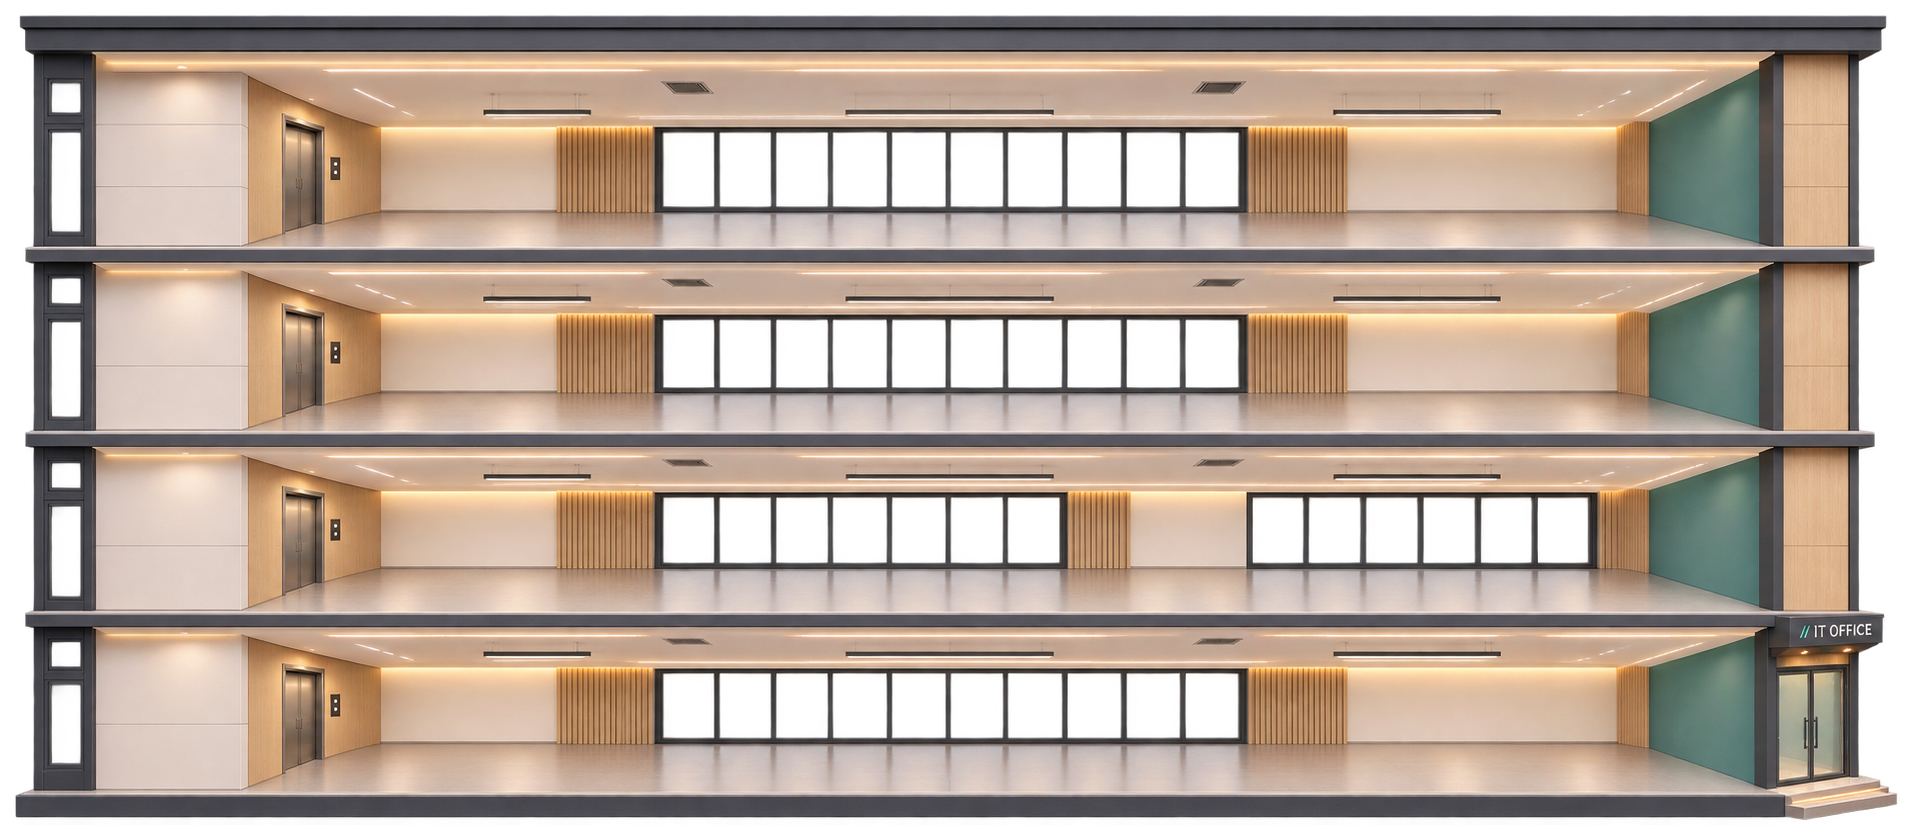
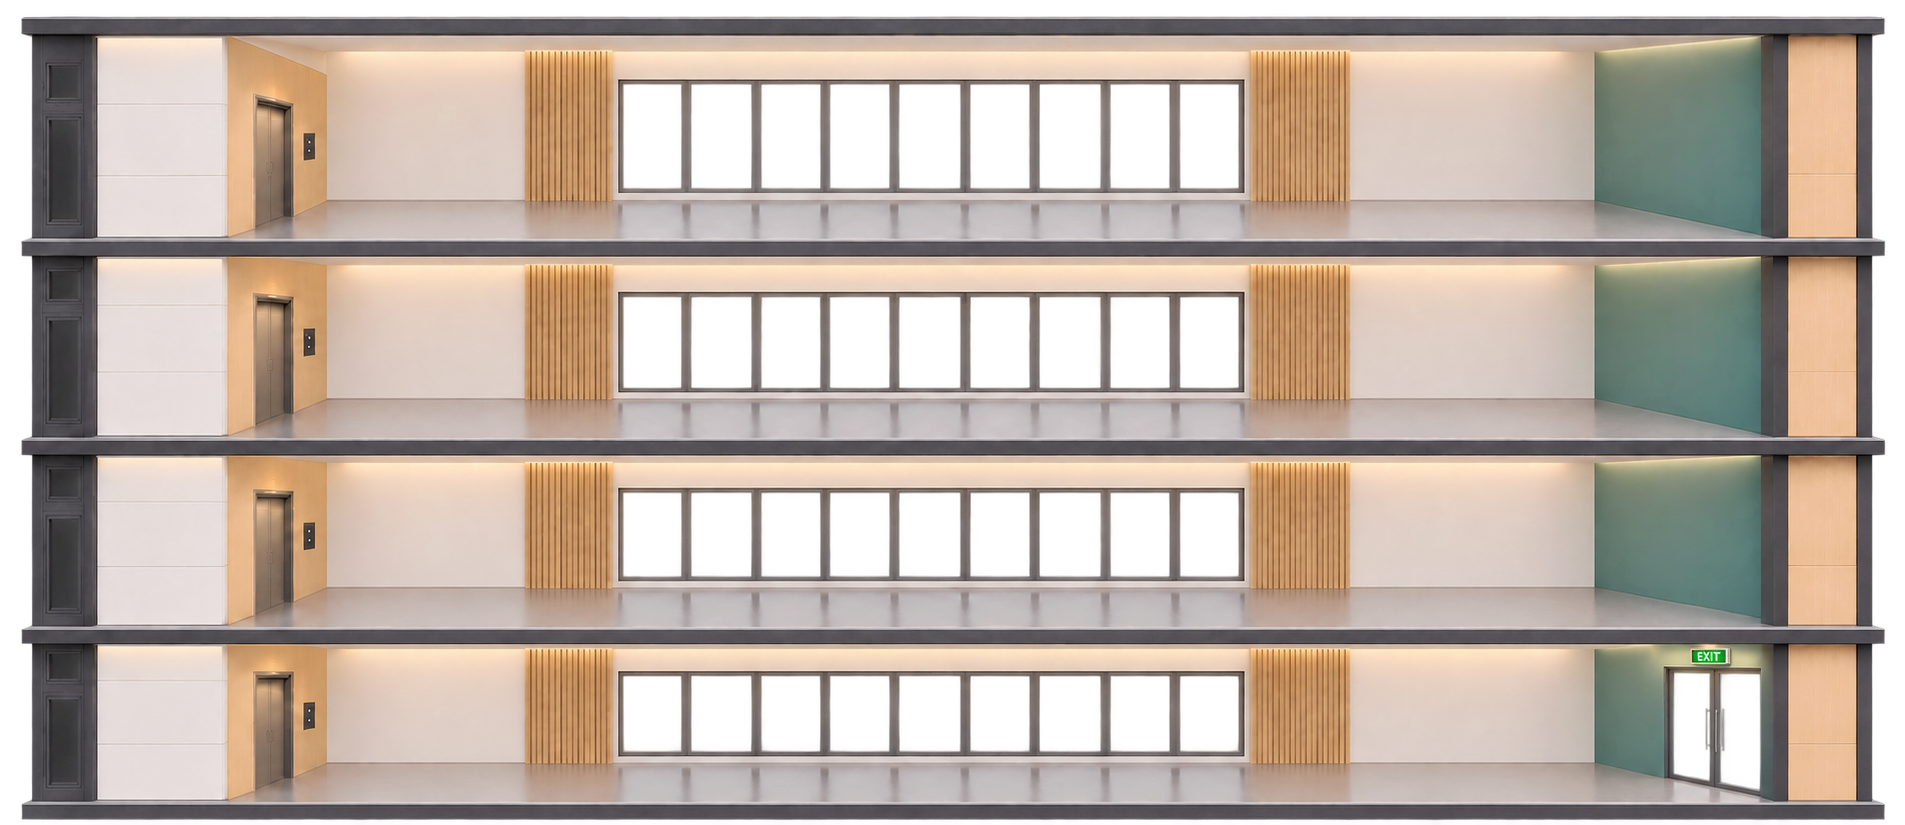
building

diff --git a/src/building.ts b/src/building.ts
@@ -12,30 +12,27 @@ const buildingLeft = 32
 const foundationY = 766
 const buildingTop = foundationY - artHeight * artScale
 // Foot positions follow the center of each elevator threshold.
-export const floorLevels = [765, 588, 408, 227].map(y => buildingTop + y * artScale)
-export const elevatorX = buildingLeft + 304 * artScale
+export const floorLevels = [781, 604, 416, 222].map(y => buildingTop + y * artScale)
+export const elevatorX = buildingLeft + 274 * artScale
 export const floorBounds = { left: elevatorX, right: buildingLeft + 1749 * artScale }
 
 const artX = (x: number) => buildingLeft + x * artScale
 const artY = (y: number) => buildingTop + y * artScale
+const exitThresholdY = artY(786)
 const groundRoute = [
-  { x: artX(1648), y: floorLevels[0] },
-  { x: artX(1812), y: artY(778) },
-  { x: artX(1902), y: artY(807) },
-  { x: artX(1932), y: 780 },
+  { x: artX(1595), y: floorLevels[0] },
+  { x: artX(1715), y: exitThresholdY },
+  { x: artX(1902), y: exitThresholdY },
 ]
 export const streetRight = worldWidth - 24
-export const entranceX = groundRoute[1].x
-export const interiorDoorX = artX(1708)
+export const interiorDoorX = groundRoute[1].x
 export const sidewalkStart = groundRoute[groundRoute.length - 1].x
-export const entranceBounds = new Phaser.Geom.Rectangle(
-  artX(1766), artY(614), 110 * artScale, 172 * artScale,
-)
+export const entranceX = sidewalkStart
 export const interiorDoorBounds = new Phaser.Geom.Rectangle(
-  interiorDoorX - 40 * artScale, groundY(interiorDoorX) - 122 * artScale, 80 * artScale, 128 * artScale,
+  artX(1664), artY(646), 101 * artScale, 152 * artScale,
 )
 export const sidewalkBounds = new Phaser.Geom.Rectangle(
-  groundRoute[1].x, artY(786), streetRight - groundRoute[1].x, 805 - artY(786),
+  sidewalkStart, 698, streetRight - sidewalkStart, 107,
 )
 
 export function groundY(x: number) {
@@ -48,9 +45,9 @@ export function groundY(x: number) {
   return groundRoute[groundRoute.length - 1].y
 }
 
-const rightWallStart = artX(1648)
+const rightWallStart = artX(1595)
 // Keep feet on the floor in front of the angled wall on each upper floor.
-const rightFloorEdge = [765, 609, 429, 246].map(artY)
+const rightFloorEdge = [781, 620, 432, 235].map(artY)
 
 export function walkingY(floor: number, x: number) {
   if (floor === 0) return groundY(x)
@@ -71,79 +68,47 @@ export function addBuilding(scene: Phaser.Scene) {
     .setName('Office building')
 
   const texture = scene.textures.get(officeArt)
-  const source = texture.getSourceImage('__BASE') as HTMLImageElement
-  if (!texture.has('door-left')) {
-    texture.add('door-left', 0, 1777, 666, 34, 121)
-    texture.add('door-right', 0, 1811, 666, 35, 121)
+  if (!texture.has('exit-left')) {
+    texture.add('exit-left', 0, 1671, 671, 44, 122)
+    texture.add('exit-right', 0, 1715, 671, 44, 122)
+  }
+  const opening = scene.add.graphics({ x: artX(1671), y: artY(671) }).setScale(artScale)
+  opening.fillStyle(0x000000).fillPoints([
+    { x: 0, y: 0 }, { x: 88, y: 1 }, { x: 88, y: 122 }, { x: 0, y: 106 },
+  ], true)
+  const leftExit = scene.add.image(artX(1671), artY(671), officeArt, 'exit-left').setOrigin(0)
+  const rightExit = scene.add.image(artX(1759), artY(671), officeArt, 'exit-right').setOrigin(1, 0)
+  const interior = (progress: number) => {
+    const open = progress > 0
+    const width = Math.cos(progress * Math.PI * 0.42) * artScale
+    opening.setVisible(open)
+    leftExit.setVisible(open).setScale(width, artScale)
+    rightExit.setVisible(open).setScale(width, artScale)
   }
 
-  const interiorArt = 'interior-office-door'
-  if (!scene.textures.exists(interiorArt)) {
-    const resolution = 3
-    const warped = scene.textures.createCanvas(interiorArt, 80 * resolution, 132 * resolution)!
-    for (let x = 0; x < warped.width; x++) {
-      const fraction = x / (warped.width - 1)
-      const top = Phaser.Math.Linear(24, 1, fraction)
-      const bottom = Phaser.Math.Linear(102, 131, fraction)
-      const sourceTop = Phaser.Math.Linear(666, 672, fraction)
-      const sourceBottom = Phaser.Math.Linear(775, 786, fraction)
-      warped.context.drawImage(source, 1849 - fraction * 77, sourceTop, 1, sourceBottom - sourceTop,
-        x, top * resolution, 1, (bottom - top) * resolution)
-    }
-    warped.refresh()
-    warped.add('door-left', 0, 15, 0, 105, 396)
-    warped.add('door-right', 0, 120, 0, 102, 396)
-  }
-
-  const addDoor = (centerX: number, top: number, hasFrame: boolean) => {
-    if (hasFrame) {
-      scene.add.image(centerX - 40 * artScale, top, interiorArt, '__BASE')
-        .setOrigin(0).setScale(artScale / 3).setName('Interior door frame')
-    }
-
-    const opening = scene.add.graphics({ x: centerX, y: top }).setScale(artScale).setVisible(false)
-    opening.fillStyle(0x000000).fillPoints(hasFrame ? [
-      { x: -35, y: 24 }, { x: 34, y: 6 }, { x: 34, y: 127 }, { x: -35, y: 103 },
-    ] : [
-      { x: -34, y: 0 }, { x: 35, y: -2 }, { x: 35, y: 108 }, { x: -34, y: 121 },
-    ], true)
-    const panelArt = hasFrame ? interiorArt : officeArt
-    const panelScale = hasFrame ? artScale / 3 : artScale
-    const left = scene.add.image(centerX - (hasFrame ? 35 : 34) * artScale, top, panelArt, 'door-left')
-      .setOrigin(0).setName('Left door panel')
-    const right = scene.add.image(centerX + (hasFrame ? 34 : 35) * artScale, top, panelArt, 'door-right')
-      .setOrigin(1, 0).setName('Right door panel')
-
-    return (progress: number) => {
-      const open = progress > 0
-      const width = Math.cos(progress * Math.PI * 0.42) * panelScale
-      opening.setVisible(open)
-      left.setVisible(open).setScale(width, panelScale)
-      right.setVisible(open).setScale(width, panelScale)
-    }
-  }
-
-  const interior = addDoor(interiorDoorX, groundY(interiorDoorX) - 117 * artScale, true)
-  const street = addDoor(artX(1811), artY(666), false)
-  const lifts = [664, 486, 303, 113].map((top, floor) => {
-    const height = [108, 107, 111, 117][floor]
+  const lifts = [
+    { top: 672, rightTop: 1, bottom: 114, rightBottom: 102 },
+    { top: 490, rightTop: 2, bottom: 118, rightBottom: 107 },
+    { top: 297, rightTop: 3, bottom: 124, rightBottom: 112 },
+    { top: 100, rightTop: 7, bottom: 126, rightBottom: 115 },
+  ].map(({ top, rightTop, bottom, rightBottom }, floor) => {
     const frame = `lift-door-${floor}`
-    if (!texture.has(frame)) texture.add(frame, 0, 286, top + 7, 34, height - 7)
-    const opening = scene.add.graphics({ x: artX(286), y: artY(top) }).setScale(artScale)
+    if (!texture.has(frame)) texture.add(frame, 0, 258, top, 32, bottom)
+    const opening = scene.add.graphics({ x: artX(258), y: artY(top) }).setScale(artScale)
     opening.fillStyle(0x000000).fillPoints([
-      { x: 0, y: 7 }, { x: 34, y: 15 }, { x: 34, y: height - 13 }, { x: 0, y: height },
+      { x: 0, y: 0 }, { x: 32, y: rightTop }, { x: 32, y: rightBottom }, { x: 0, y: bottom },
     ], true)
-    const left = scene.add.image(artX(286), artY(top + 7), officeArt, frame).setOrigin(0)
-    const right = scene.add.image(artX(320), artY(top + 7), officeArt, frame).setOrigin(1, 0)
+    const left = scene.add.image(artX(258), artY(top), officeArt, frame).setOrigin(0)
+    const right = scene.add.image(artX(290), artY(top), officeArt, frame).setOrigin(1, 0)
     return (progress: number) => {
-      const width = Math.round(17 * (1 - progress))
+      const width = Math.round(16 * (1 - progress))
       opening.setVisible(progress > 0)
-      left.setScale(artScale).setCrop(0, 0, width, height - 7).setVisible(progress > 0 && width > 0)
-      right.setScale(artScale).setCrop(34 - width, 0, width, height - 7).setVisible(progress > 0 && width > 0)
+      left.setScale(artScale).setCrop(0, 0, width, bottom).setVisible(progress > 0 && width > 0)
+      right.setScale(artScale).setCrop(32 - width, 0, width, bottom).setVisible(progress > 0 && width > 0)
     }
   })
   lifts.forEach(draw => draw(0))
   interior(0)
-  street(0)
-  return { interior, street, lifts }
+
+  return { interior, lifts }
 }

diff --git a/src/main.ts b/src/main.ts
@@ -1,7 +1,7 @@
 import Phaser from 'phaser'
 import './style.css'
 import {
-  addBuilding, elevatorX, entranceBounds, entranceX, floorBounds, floorLevels,
+  addBuilding, elevatorX, entranceX, floorBounds, floorLevels,
   interiorDoorBounds, interiorDoorX, loadBuilding, sidewalkBounds, sidewalkStart,
   streetRight, walkingY, worldHeight, worldWidth,
 } from './building'
@@ -60,7 +60,6 @@ class Office extends Phaser.Scene {
     let destination: { x: number; floor: number } | undefined
     let strideDistance = 0
     let interiorDoorProgress = 0
-    let streetDoorProgress = 0
     let passageTarget: number | undefined
     const insideLanding = interiorDoorX - 42
     const showIdle = () => {
@@ -72,13 +71,13 @@ class Office extends Phaser.Scene {
       const direction = Number(right.isDown || d.isDown) - Number(left.isDown || a.isDown)
       const seconds = Math.min(delta, 50) / 1000
       const updateDoor = (progress: number, x: number, draw: (progress: number) => void) => {
-        const nearby = floor === 0 && elevatorFloor === undefined && Math.abs(igor.x - x) < 39
+        const nearby = floor === 0 && elevatorFloor === undefined
+          && (Math.abs(igor.x - x) < 39 || passageTarget === x)
         const next = Phaser.Math.Clamp(progress + (nearby ? 1 : -1) * doorSpeed * seconds, 0, 1)
         if (next !== progress) draw(Phaser.Math.Easing.Sine.InOut(next))
         return next
       }
       interiorDoorProgress = updateDoor(interiorDoorProgress, interiorDoorX, doors.interior)
-      streetDoorProgress = updateDoor(streetDoorProgress, entranceX, doors.street)
       for (let index = 0; index < liftProgress.length; index++) {
         const open = elevatorFloor !== undefined && (
           (elevatorPhase === 'boarding' && index === floor)
@@ -129,7 +128,7 @@ class Office extends Phaser.Scene {
           return
         }
         const distance = targetX - igor.x
-        const step = walkSpeed * seconds
+        const step = (passageTarget === undefined ? walkSpeed : elevatorSpeed) * seconds
         const travel = Math.min(Math.abs(distance), step)
         if (travel === 0) return
         const previousX = igor.x
@@ -182,7 +181,7 @@ class Office extends Phaser.Scene {
     this.input.on('pointerup', (pointer: Phaser.Input.Pointer) => {
       if (pointer.button !== 0 || pointer.getDistance() >= dragThreshold || elevatorFloor !== undefined) return
       const point = camera.getWorldPoint(pointer.x, pointer.y)
-      if (interiorDoorBounds.contains(point.x, point.y) || entranceBounds.contains(point.x, point.y)) {
+      if (interiorDoorBounds.contains(point.x, point.y)) {
         destination = { x: floor === 0 && igor.x >= entranceX ? insideLanding : sidewalkStart, floor: 0 }
         return
       }
